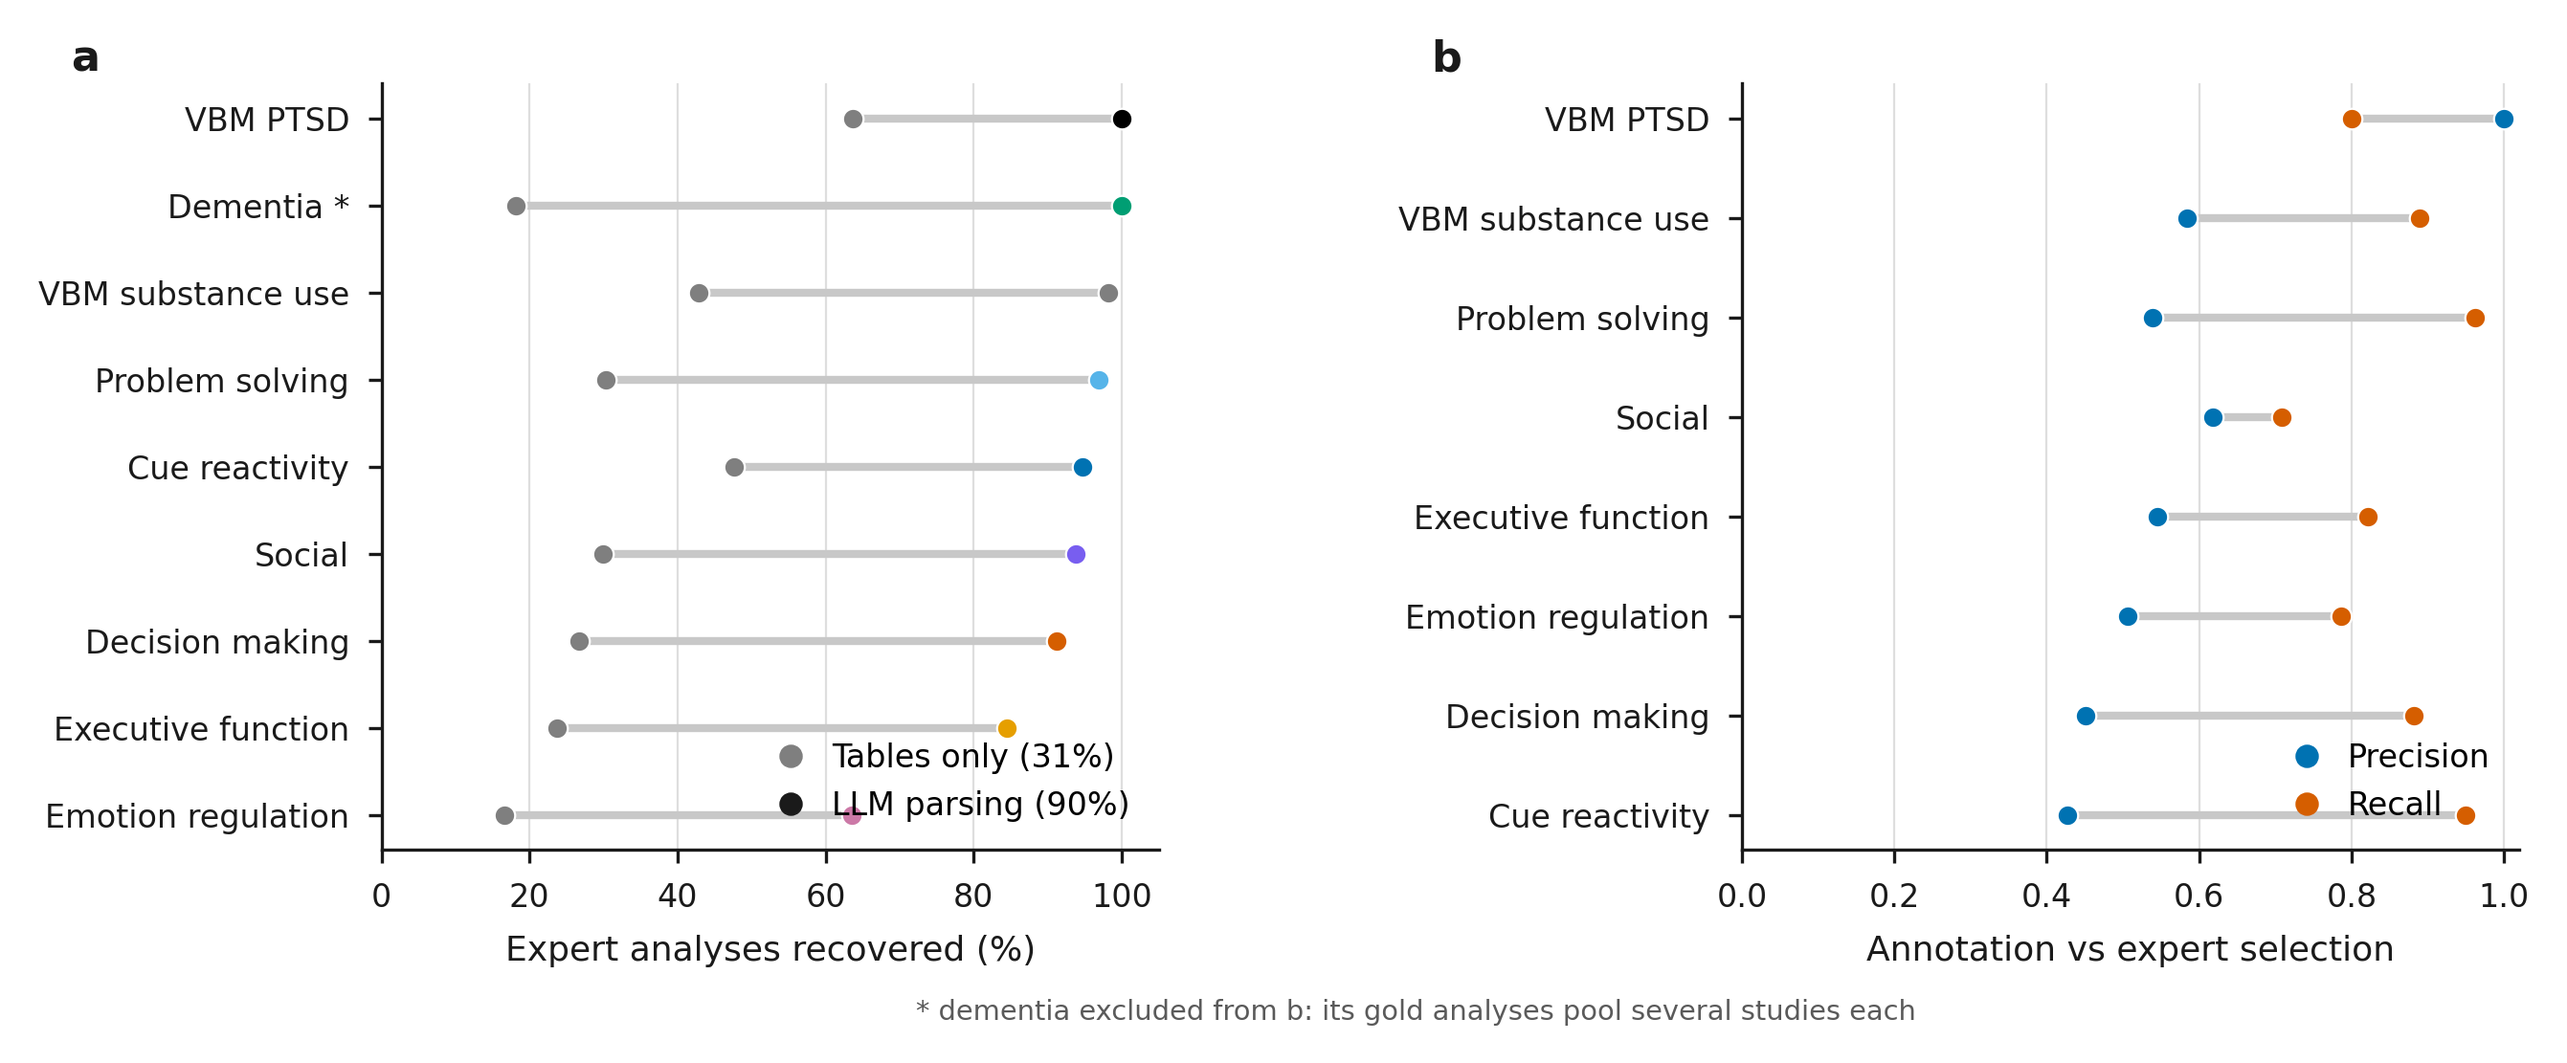
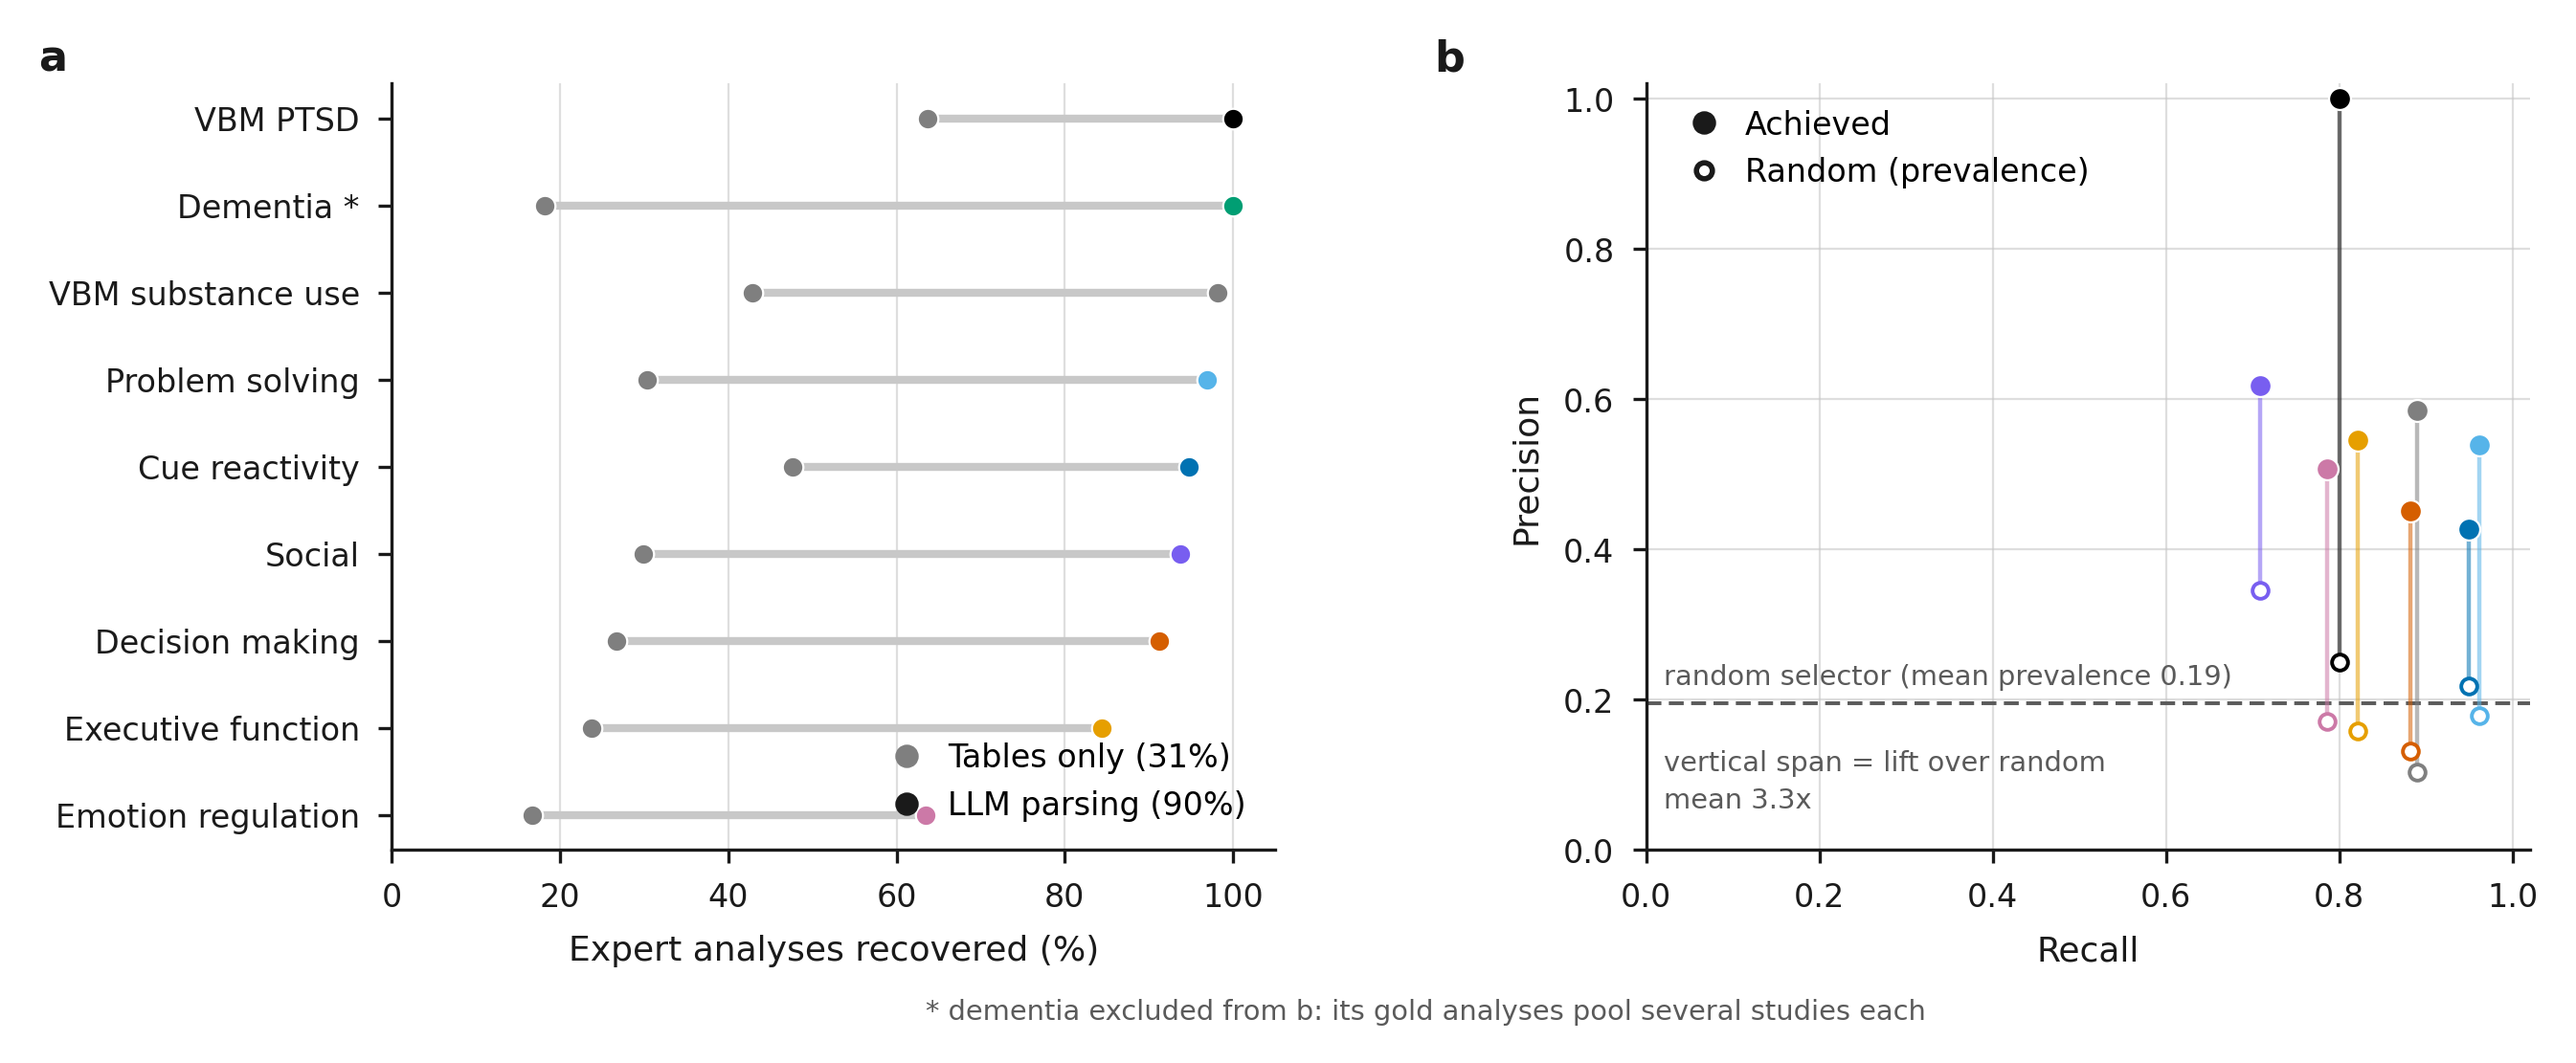
figure 3b: precision-recall space against a prevalence baseline, not a dumbbell
The dumbbell was wrong twice over. A connector implies a before/after, but
precision and recall are two coordinates of one operating point rather
than a progression -- and it made panel b mimic panel a, where the
connector genuinely does run baseline to outcome, so the two panels
claimed the same structure for different things.

Panel b now places each project in precision-recall space with a
connector down to its own prevalence, which is the precision a random
selector achieves and therefore the no-skill line in PR space. That
restores the baseline-to-outcome reading for the pair where it is true.

It also fixes the interpretability problem: 0.54 precision means nothing
without knowing what chance looks like. Adding the baseline reorders the
projects. vbm_of_substance_use turns 0.584 precision into 5.6x lift off a
prevalence of 0.104, while social's 0.618 -- the third-highest raw
precision -- is the lowest lift at 1.8x because its prevalence is the
highest in the set. Mean lift is 3.3x. Raw precision alone would have
ranked these backwards.

Prevalence is computed per project from the tp/fp/fn/tn already in
annotation_aggregates.csv, so no new measurement was needed.

diff --git a/scripts/make_nature_methods_figures.py b/scripts/make_nature_methods_figures.py
@@ -267,30 +267,60 @@ def figure3(out_dir: Path) -> None:
               loc="lower right", handletextpad=0.3)
     panel_label(ax, "a", dx=-0.40)
 
-    # b: annotation among the analyses that were recovered
+    # b: annotation as an operating point in precision-recall space, against the no-skill line
+    #
+    # An earlier version drew precision and recall as a dumbbell, which was wrong: a connector
+    # implies a before/after, and these are two coordinates of one operating point, not a
+    # progression. Worse, it made panel b look like panel a, where the connector genuinely does
+    # run baseline -> outcome.
+    #
+    # The connector here runs prevalence -> achieved precision, which IS that relationship. A
+    # random selector achieves precision equal to the prevalence of true positives at every
+    # recall, so prevalence is the no-skill line in precision-recall space. It also makes the
+    # absolute numbers interpretable, and it reorders them: social's 0.618 precision is the third
+    # highest but the *lowest* lift at 1.8x, because its prevalence is the highest in the set,
+    # while vbm_of_substance_use turns a similar 0.584 into 5.6x off a prevalence of 0.104.
     ax = axes[1]
-    ann.sort(key=lambda r: float(r["f1"]))
-    for i, r in enumerate(ann):
-        p, rec = float(r["precision"]), float(r["recall"])
-        ax.plot([min(p, rec), max(p, rec)], [i, i], color=RULE, lw=1.5, zorder=1)
-        ax.scatter([p], [i], s=15, color="#0072B2", zorder=3, edgecolors="white", linewidths=0.4)
-        ax.scatter([rec], [i], s=15, color="#D55E00", zorder=3, edgecolors="white", linewidths=0.4)
-    ax.set_yticks(range(len(ann)))
-    ax.set_yticklabels([DISPLAY[r["project_name"]] for r in ann])
+    pts = []
+    for r in ann:
+        tp, fp, fn, tn = (int(float(r[k])) for k in ("tp", "fp", "fn", "tn"))
+        total = tp + fp + fn + tn
+        if not total:
+            continue
+        pts.append((r["project_name"], float(r["recall"]), float(r["precision"]),
+                    (tp + fn) / total))
+    pooled_prev = st.mean([p[3] for p in pts])
+
+    ax.axhline(pooled_prev, color=MUTED, lw=0.7, ls=(0, (4, 2)), zorder=1)
+    # Parked at the far left: every project sits at recall > 0.7, so the left half of the axis is
+    # empty and the label cannot collide with data.
+    ax.text(0.02, pooled_prev + 0.025, f"random selector (mean prevalence {pooled_prev:.2f})",
+            fontsize=5.2, color=MUTED, ha="left")
+    for proj, rec, prec, prev in pts:
+        ax.plot([rec, rec], [prev, prec], color=COLORS[proj], lw=0.8, alpha=0.55, zorder=2)
+        ax.scatter([rec], [prev], s=9, facecolors="white", edgecolors=COLORS[proj],
+                   linewidths=0.7, zorder=3)
+        ax.scatter([rec], [prec], s=17, color=COLORS[proj], zorder=4,
+                   edgecolors="white", linewidths=0.4)
     ax.set_xlim(0, 1.02)
-    ax.set_xlabel("Annotation vs expert selection")
-    ax.grid(axis="x", alpha=0.6)
+    ax.set_ylim(0, 1.02)
+    ax.set_xlabel("Recall")
+    ax.set_ylabel("Precision")
+    ax.grid(alpha=0.6)
     ax.set_axisbelow(True)
-    ax.legend(handles=[Line2D([], [], marker="o", ls="", color="#0072B2", markersize=3.4,
-                              label="Precision"),
-                       Line2D([], [], marker="o", ls="", color="#D55E00", markersize=3.4,
-                              label="Recall")],
-              loc="lower right", handletextpad=0.3)
-    panel_label(ax, "b", dx=-0.40)
+    ax.legend(handles=[Line2D([], [], marker="o", ls="", color=INK, markersize=3.4,
+                              label="Achieved"),
+                       Line2D([], [], marker="o", ls="", markerfacecolor="white",
+                              markeredgecolor=INK, color="none", markersize=3.0,
+                              label="Random (prevalence)")],
+              loc="upper left", handletextpad=0.3, borderaxespad=0.4)
+    ax.text(0.02, 0.055, f"vertical span = lift over random\nmean {st.mean([p[2] / p[3] for p in pts]):.1f}x",
+            transform=ax.transAxes, ha="left", fontsize=5.2, color=MUTED, linespacing=1.5)
+    panel_label(ax, "b", dx=-0.24)
 
     fig.text(0.5, -0.06, "* dementia excluded from b: its gold analyses pool several studies each",
              ha="center", fontsize=5.2, color=MUTED)
-    fig.subplots_adjust(wspace=0.75)
+    fig.subplots_adjust(wspace=0.42)
     save(fig, out_dir, "figure3_recover_and_select_analyses")
 
 

diff --git a/NATURE_METHODS_SKELETON.md b/NATURE_METHODS_SKELETON.md
@@ -151,10 +151,33 @@ to be *recovered* before selecting among them means anything, so this is the pre
 depends on. Worst case is emotion regulation at 63%, which is also the project with the loosest
 target — worth naming rather than averaging away.
 
-**b. Annotation (§5).** Exhausted-manual basis, `mode_id = combined`, dementia excluded — its gold
-analyses pool several studies each, so per-paper extraction has no clean mapping to its units. The
-asymmetry between panels is marked with an asterisk rather than hidden, since dementia parses
-perfectly (100%) and is dropped only from **b**.
+**b. Annotation (§5).** Each project is an operating point in precision–recall space, with a
+connector down to its own **prevalence** — the precision a random selector achieves, and therefore
+the no-skill line in PR space. Exhausted-manual basis, `mode_id = combined`.
+
+Two reasons this encoding rather than a precision-vs-recall dumbbell. A connector implies a
+before/after, and precision and recall are two coordinates of one operating point, not a
+progression — worse, it made panel **b** mimic panel **a**, where the connector genuinely does run
+baseline → outcome. Here the connector *is* that relationship: random → achieved.
+
+It also makes the absolute numbers interpretable, and **it reorders them**:
+
+| | precision | prevalence | lift |
+|---|---|---|---|
+| vbm_of_substance_use | 0.584 | 0.104 | **5.6×** |
+| vbm_of_ptsd | 1.000 | 0.250 | 4.0× |
+| executive_function | 0.545 | 0.158 | 3.5× |
+| … | | | |
+| social | 0.618 | 0.345 | **1.8×** |
+
+Mean **3.3×** over random. Social's 0.618 is the third-highest raw precision but the *lowest* lift,
+because its prevalence is the highest in the set; vbm_of_substance_use turns a similar 0.584 into
+5.6×. Reporting raw precision alone would have ranked these backwards — a reader has no way to
+judge 0.54 without knowing what chance looks like.
+
+dementia is excluded from **b** only (its gold analyses pool several studies each, so per-paper
+extraction has no clean mapping to its units); it parses perfectly at 100% and stays in **a**. The
+asymmetry is marked with an asterisk rather than hidden.
 
 State the aggregation dependence in one sentence, because it reverses the conclusion: matched-only
 gives precision 0.863 / recall 0.810 (precision-heavy), exhausted-manual gives 0.540 / 0.809
